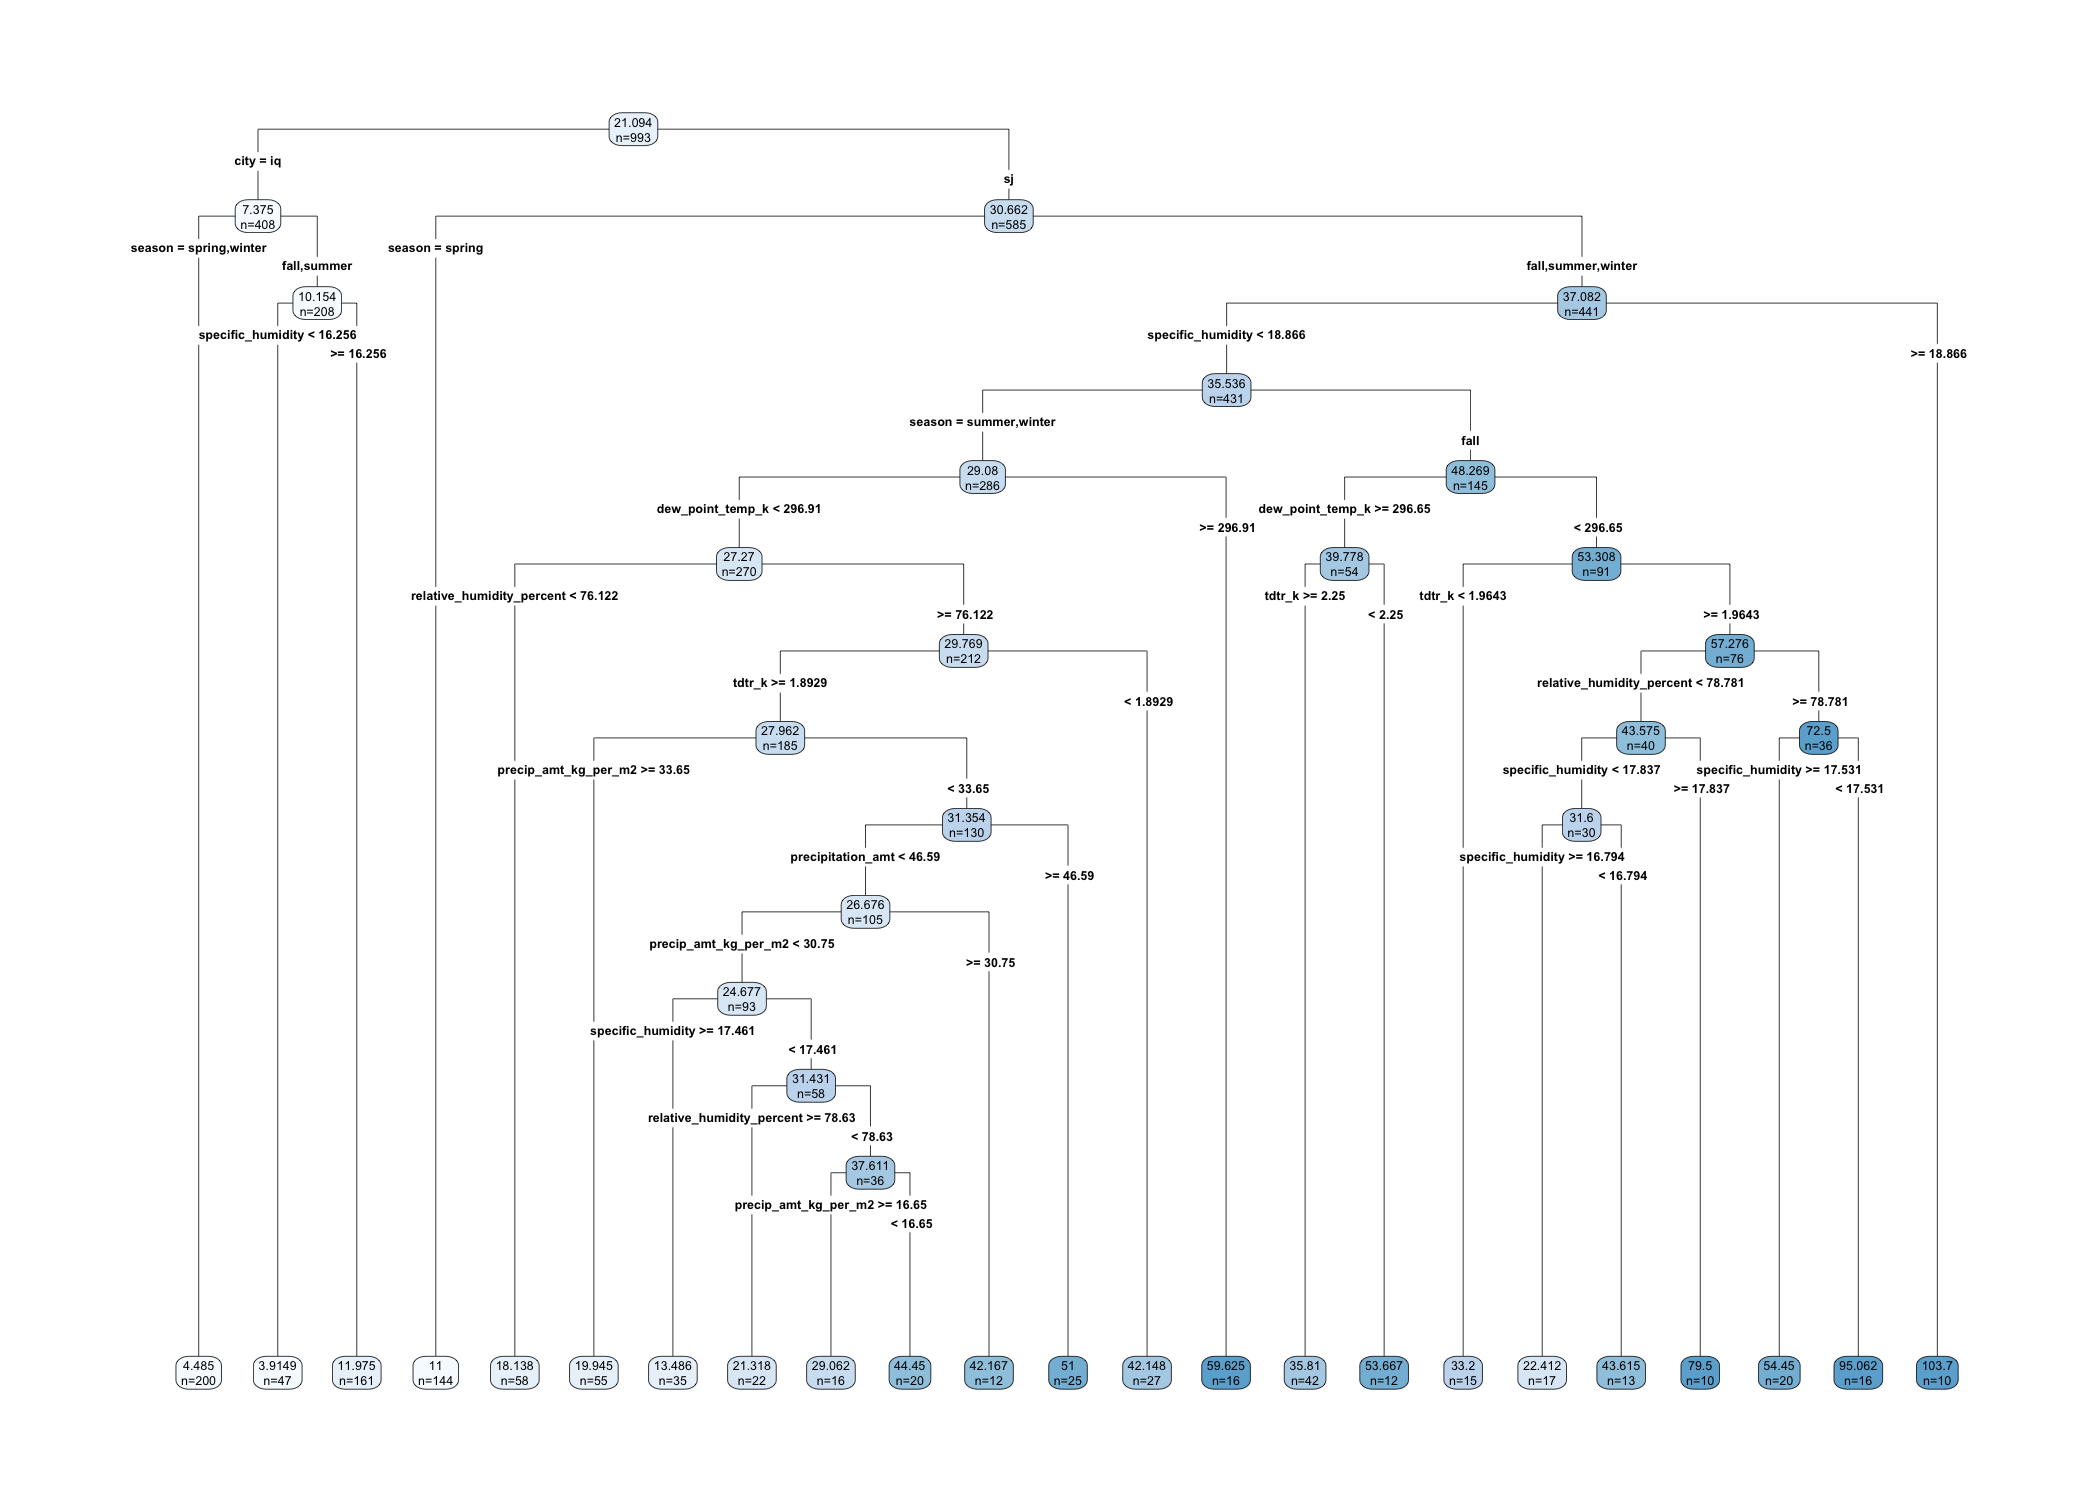
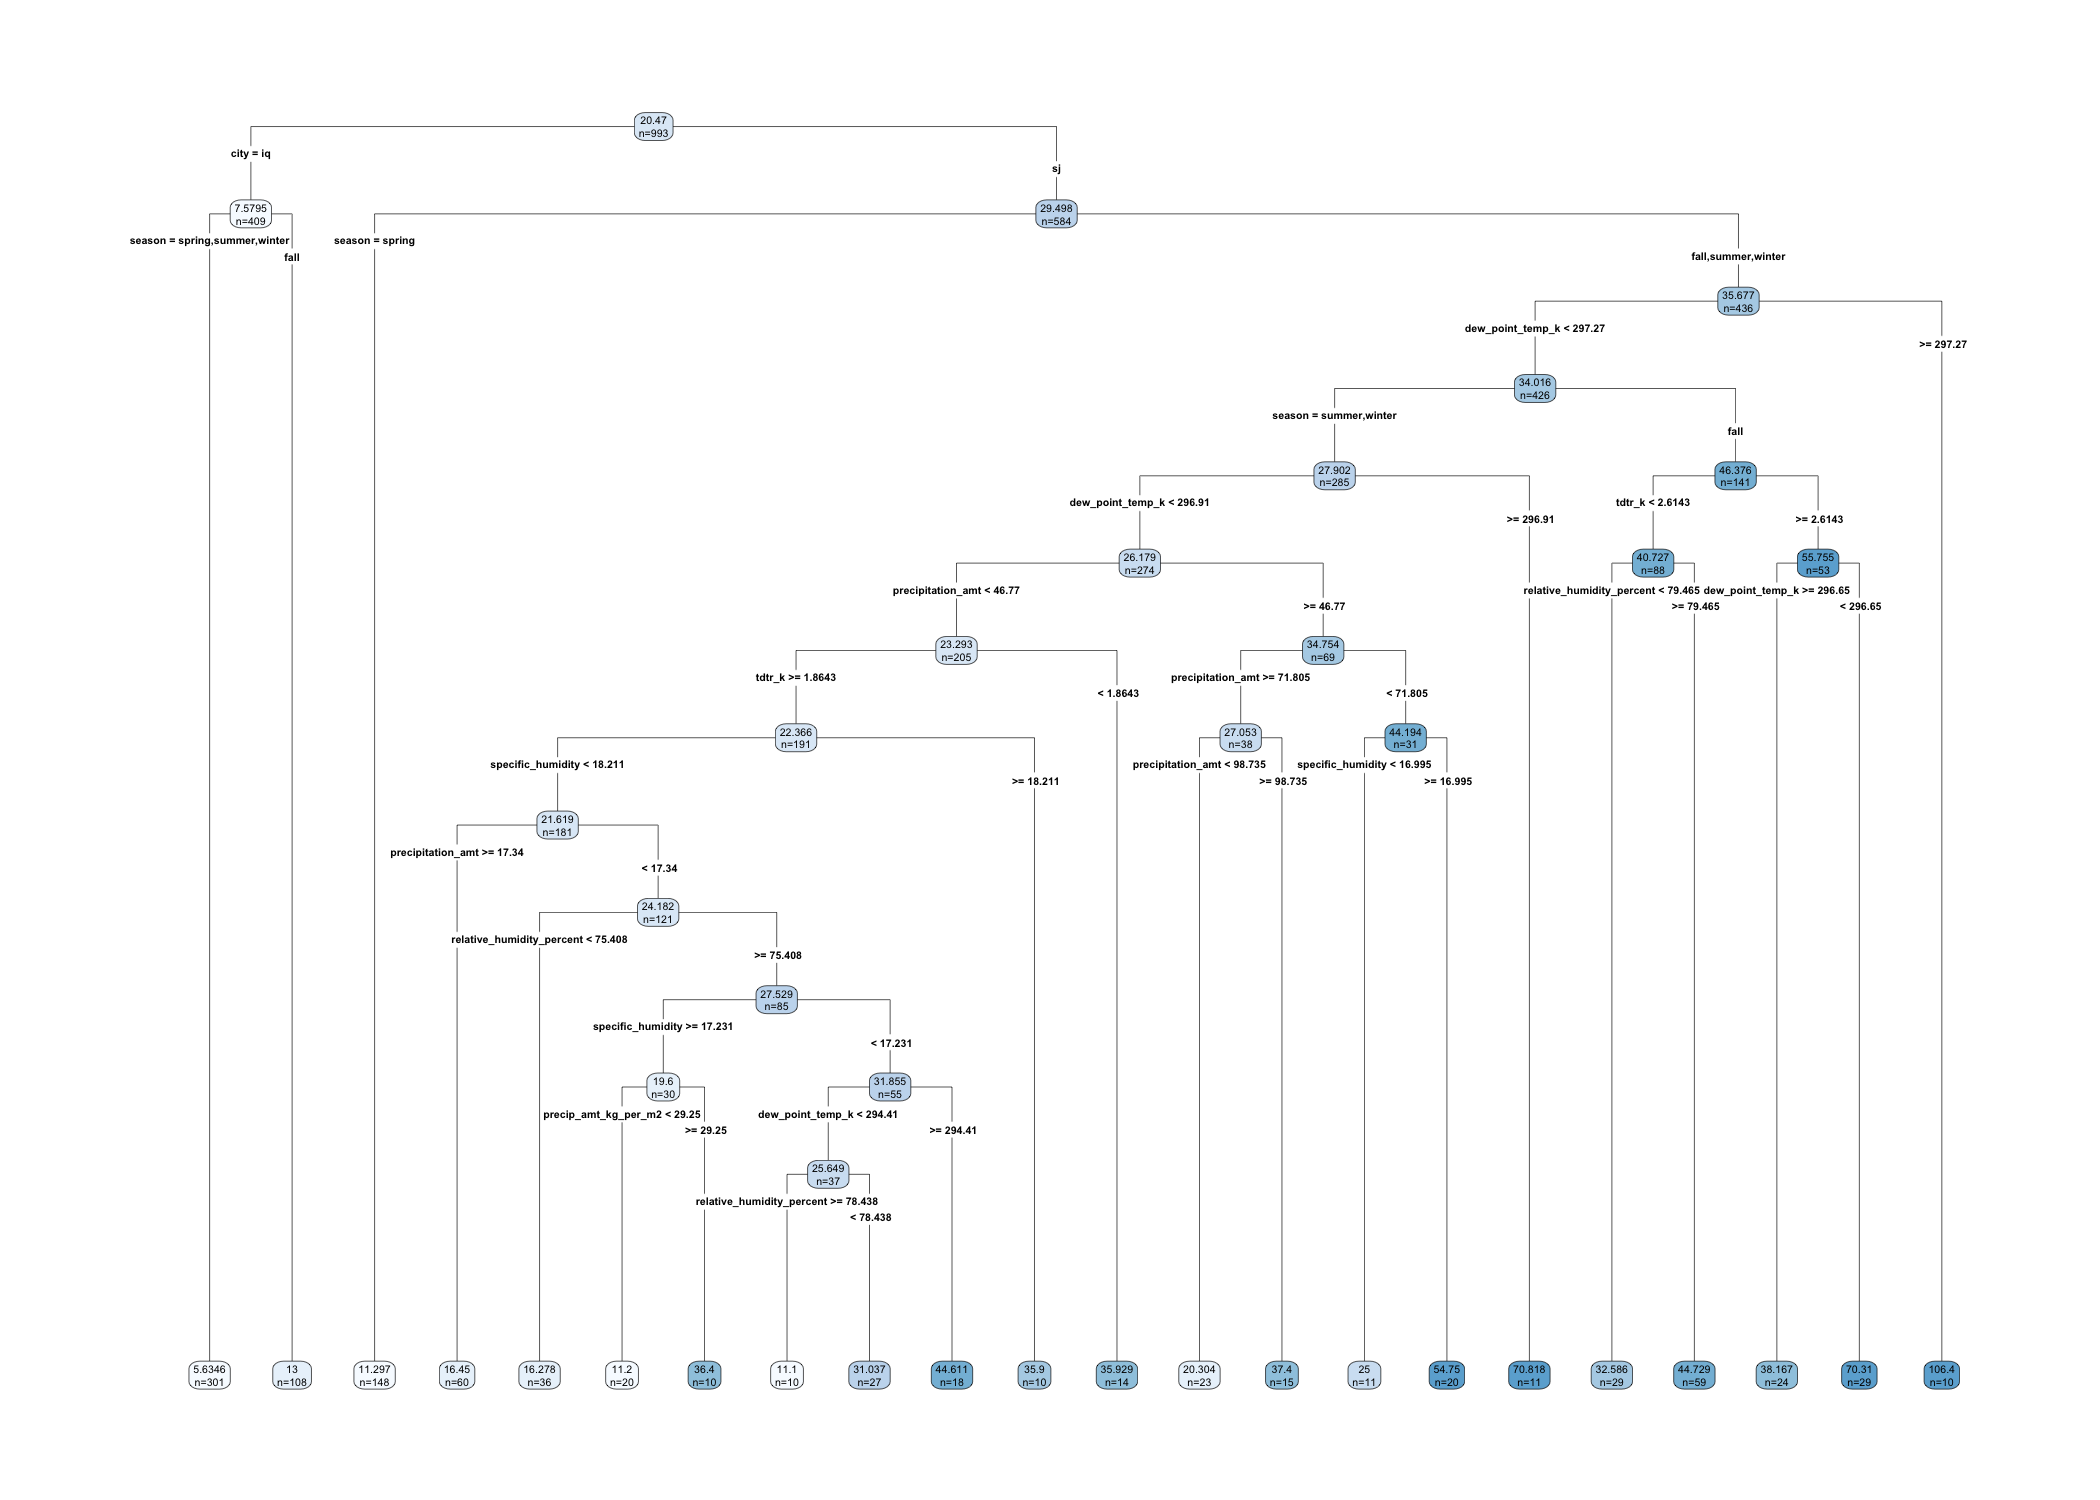
fixed last commit that didnt work

diff --git a/ECO395_Exercises_03.md b/ECO395_Exercises_03.md
@@ -93,10 +93,10 @@ dengue_boost = gbm(total_cases ~ season + city + specific_humidity + precipitati
 
 | Model            |     RMSE |
 |:-----------------|---------:|
-| Tree             | 26.20831 |
-| Pruned Tree      | 27.60546 |
-| Random Forest    | 24.60582 |
-| Gradient Boosted | 24.42566 |
+| Tree             | 31.09546 |
+| Pruned Tree      | 30.80648 |
+| Random Forest    | 29.92155 |
+| Gradient Boosted | 31.14720 |
 
 The best performing model was the random forest model. Below are partial
 dependence plots for `specific_humidity`,
@@ -108,32 +108,32 @@ dependence plots for `specific_humidity`,
 
     ## Distribution not specified, assuming gaussian ...
 
-    ## [1] 1161.282
+    ## [1] 910.0705
 
-    ## [1] 1144.251
+    ## [1] 903.8378
 
-    ## [1] 1060.626
+    ## [1] 880.6102
 
-    ## [1] 1116.244
+    ## [1] 958.5069
 
-    ## [1] 815.2901
+    ## [1] 646.6308
 
-    ## [1] 997.5279
+    ## [1] 833.3854
 
 ## Predictive model building: California housing
 
     ## Distribution not specified, assuming gaussian ...
 
-    ## [1] 77000.8
+    ## [1] 75864.9
 
-    ## [1] 77188.81
+    ## [1] 93175.22
 
-    ## [1] 78609.87
+    ## [1] 77226.47
 
-    ## [1] 79393.94
+    ## [1] 77726.98
 
-    ## [1] 65710.6
+    ## [1] 64843.63
 
-    ## [1] 66744.92
+    ## [1] 65957.95
 
 ![](ECO395_Exercises_03_files/figure-markdown_github/unnamed-chunk-8-1.png)![](ECO395_Exercises_03_files/figure-markdown_github/unnamed-chunk-8-2.png)![](ECO395_Exercises_03_files/figure-markdown_github/unnamed-chunk-8-3.png)
